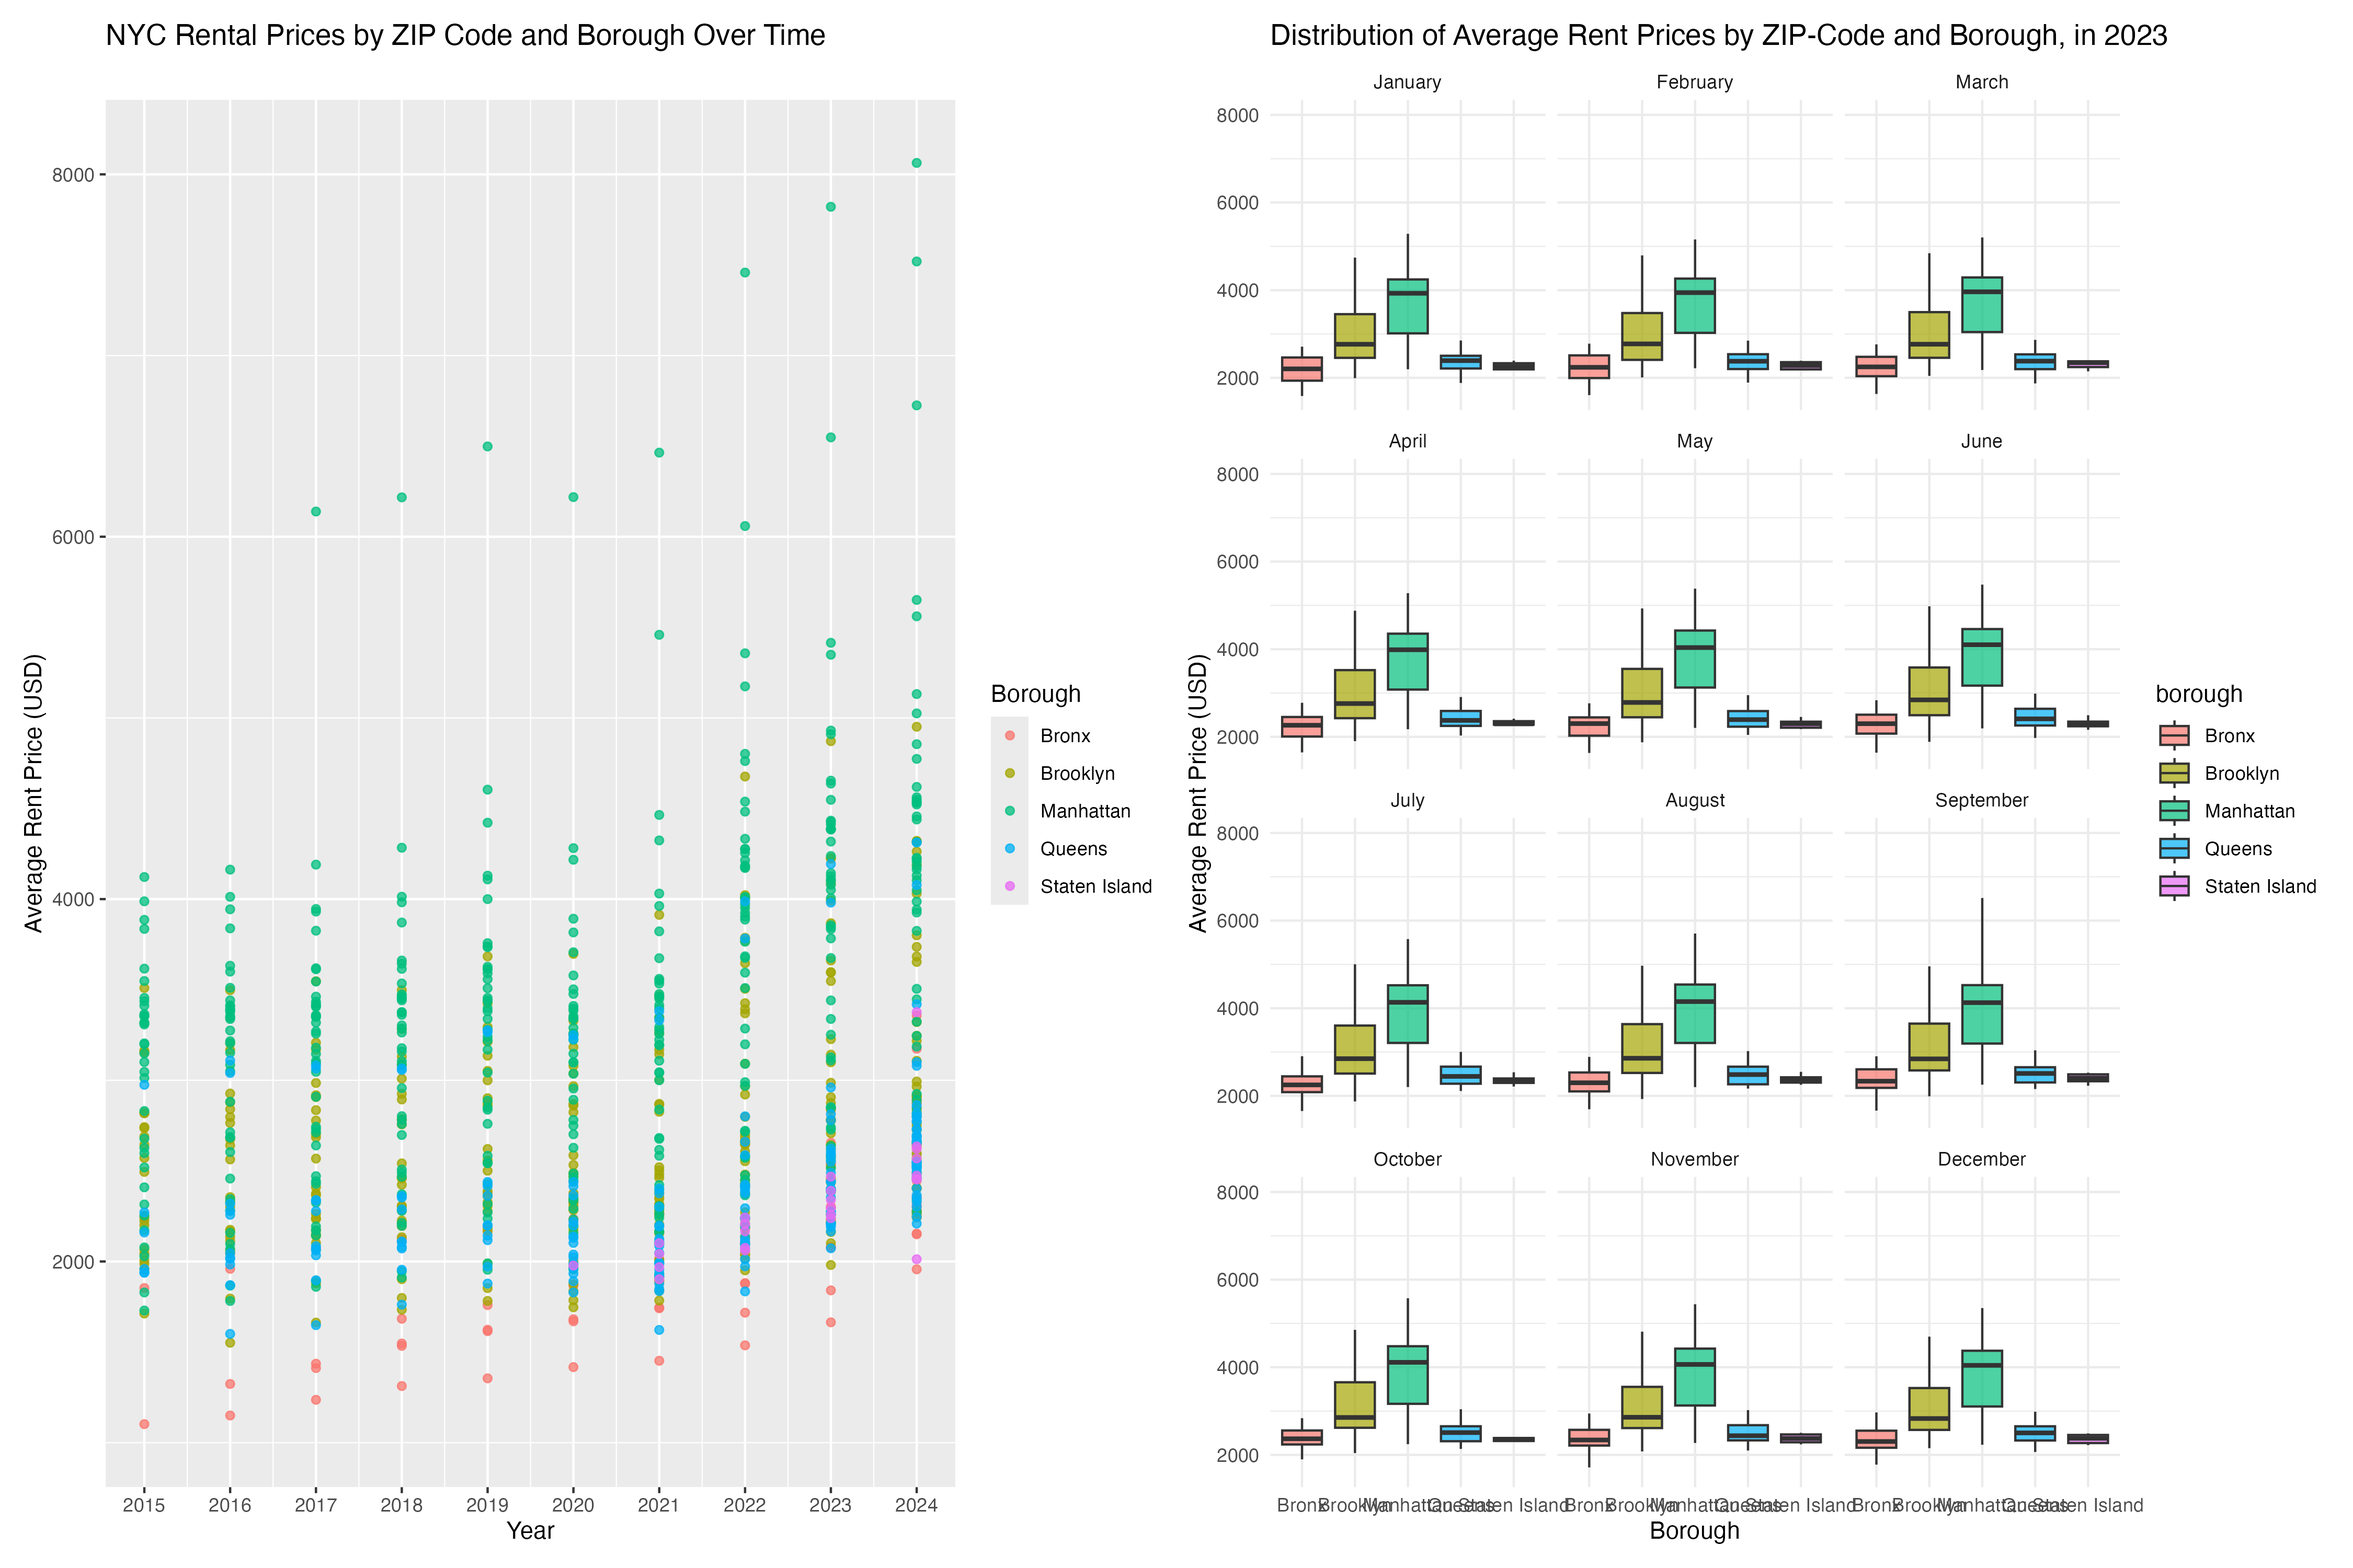
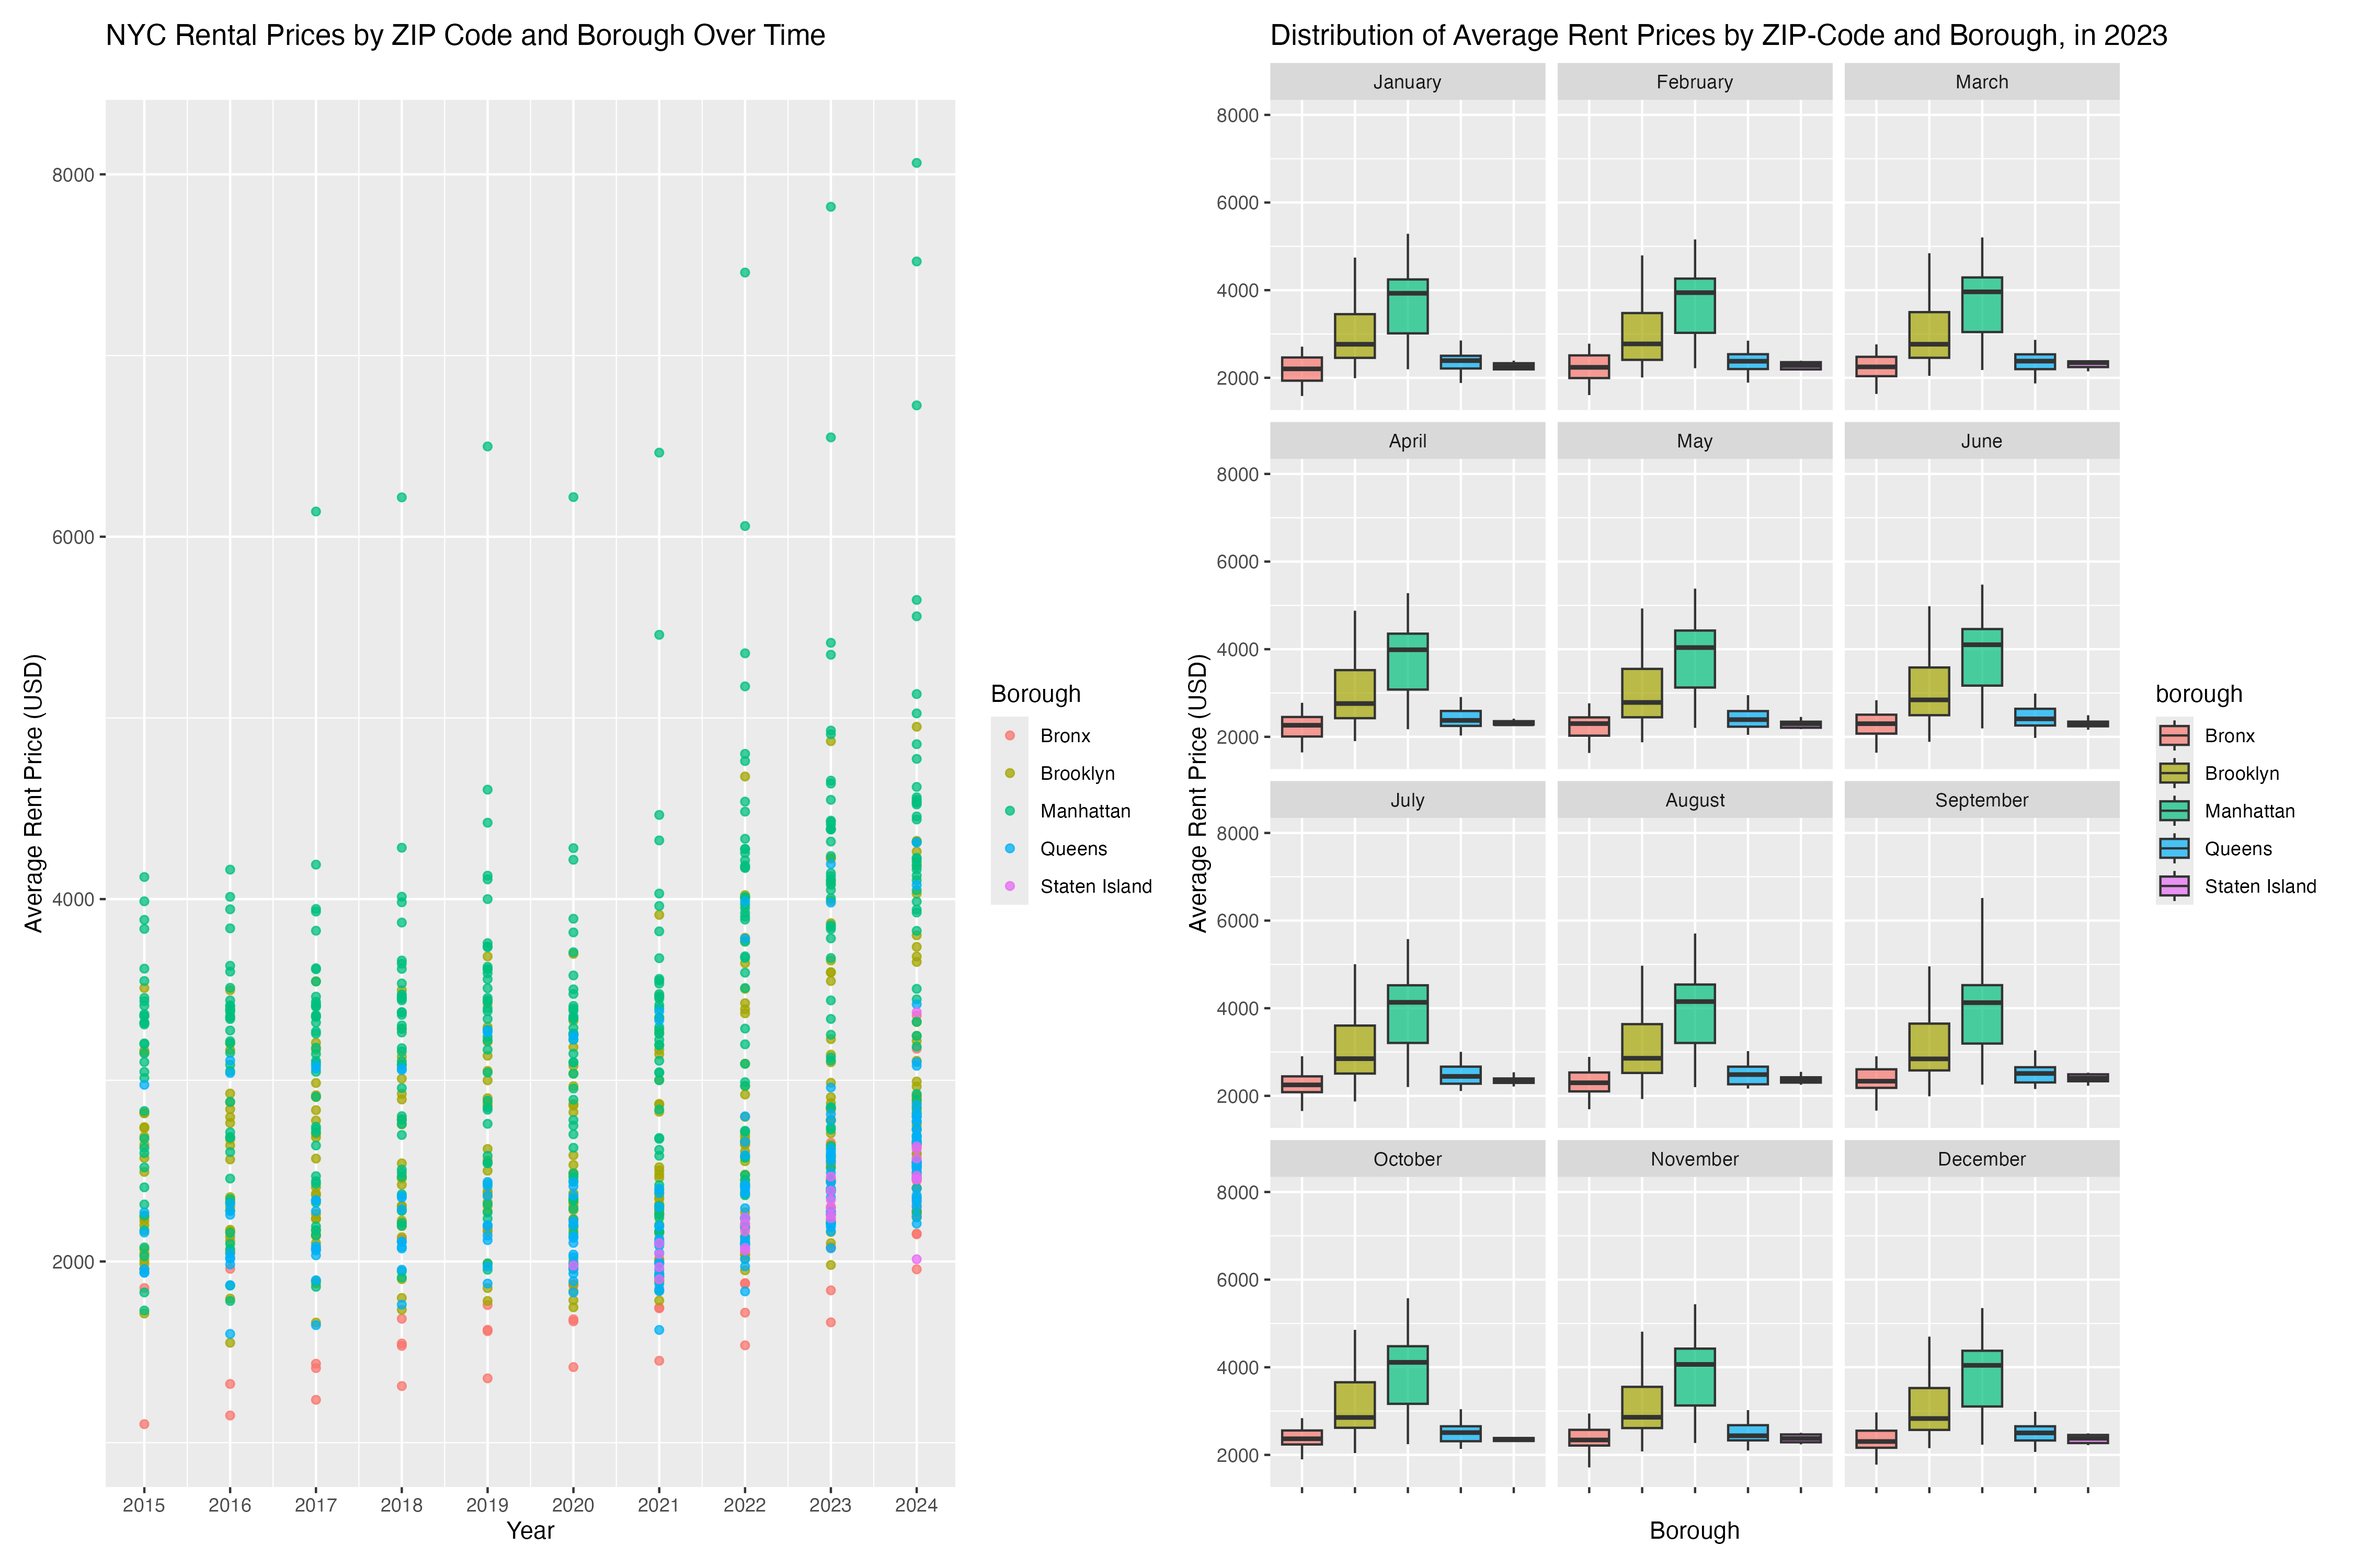
updating problem 1 and 2 formatting

diff --git a/p8105_hw3_tp2806.md b/p8105_hw3_tp2806.md
@@ -3,6 +3,14 @@ p8105_hw3_tp2806
 Tejashree Prakash
 2025-10-12
 
+``` r
+knitr::opts_chunk$set(
+  warning = FALSE,
+  message = FALSE,
+  echo = TRUE  # or FALSE if you want no code at all
+)
+```
+
 ## Problem 1
 
 ``` r
@@ -21,8 +29,9 @@ columns. Key variables include: order_id, which is the order ID for each
 order; product_name, defining the specific item that was ordered; and
 aisle, defining aisle number matching to a specific order
 
-For example, user 153375 placed order 256005 that included “Gluten Free
-Rice Lasagna” from the “dry pasta” aisle on day 2 at hour 9.
+For example, user 199948 placed order 3245316 that included “Organic
+Vegetable Masala Stew” from the “soup broth bouillon” aisle on day 4 at
+hour 19.
 
 ``` r
 #distinct aisle 
@@ -63,7 +72,7 @@ aisle_plot <- instacart %>%
 aisle_plot
 ```
 
-![](p8105_hw3_tp2806_files/figure-gfm/unnamed-chunk-3-1.png)<!-- -->
+![](p8105_hw3_tp2806_files/figure-gfm/unnamed-chunk-4-1.png)<!-- -->
 
 ## Making a table that show popular items in three aisles.
 
@@ -136,18 +145,7 @@ zip_df <-
   read_csv("zillow_data/Zip Codes.csv") %>%
   janitor::clean_names() %>%
   mutate(file_date = as.Date(file_date, format = "%m/%d/%y")) #consistent date format
-```
 
-    ## Rows: 322 Columns: 7
-    ## ── Column specification ────────────────────────────────────────────────────────
-    ## Delimiter: ","
-    ## chr (4): County, County Code, File Date, Neighborhood
-    ## dbl (3): State FIPS, County FIPS, ZipCode
-    ## 
-    ## ℹ Use `spec()` to retrieve the full column specification for this data.
-    ## ℹ Specify the column types or set `show_col_types = FALSE` to quiet this message.
-
-``` r
 #Zillow data
 zori_df <- 
   read_csv("zillow_data/zori.csv") %>%
@@ -164,18 +162,7 @@ zori_df <-
     date = ymd(date), #consistent date format
   ) %>%
   rename(borough = county) 
-```
 
-    ## Rows: 149 Columns: 125
-    ## ── Column specification ────────────────────────────────────────────────────────
-    ## Delimiter: ","
-    ## chr   (6): RegionType, StateName, State, City, Metro, CountyName
-    ## dbl (119): RegionID, SizeRank, RegionName, 2015-01-31, 2015-02-28, 2015-03-3...
-    ## 
-    ## ℹ Use `spec()` to retrieve the full column specification for this data.
-    ## ℹ Specify the column types or set `show_col_types = FALSE` to quiet this message.
-
-``` r
 #Merging datasets
 zillow_df <- left_join(zori_df, zip_df, by= c("zip_code"), relationship =
   "many-to-many")
@@ -282,13 +269,10 @@ rent_by_zip_plot <-
     breaks = c(2015, 2016, 2017, 2018, 2019, 2020, 2021, 2022, 2023, 2024),  
     labels = c(2015, 2016, 2017, 2018, 2019, 2020, 2021, 2022, 2023, 2024)
   )
-rent_by_zip_plot
+print(rent_by_zip_plot)
 ```
 
-    ## Warning: Removed 531 rows containing missing values or values outside the scale range
-    ## (`geom_point()`).
-
-![](p8105_hw3_tp2806_files/figure-gfm/unnamed-chunk-9-1.png)<!-- -->
+![](p8105_hw3_tp2806_files/figure-gfm/unnamed-chunk-10-1.png)<!-- -->
 This plot shows the average rent prices of each zip code within all
 boroughs and all years between 2015 to 2024. Overall, we can see through
 this plot that rent prices consistently ranged between 2000-4000 USD
@@ -323,16 +307,12 @@ rent_2023_plot <- ggplot(rent_2023, aes(x = borough, y = avg_rent_price, fill = 
     x = "Borough",
     y = "Average Rent Price (USD)"
   ) +
-  theme(axis.text.x = element_blank()) +
-  theme_minimal() 
+  theme(axis.text.x = element_blank()) 
 
-rent_2023_plot
+print(rent_2023_plot)
 ```
 
-    ## Warning: Removed 333 rows containing non-finite outside the scale range
-    ## (`stat_boxplot()`).
-
-![](p8105_hw3_tp2806_files/figure-gfm/unnamed-chunk-10-1.png)<!-- -->
+![](p8105_hw3_tp2806_files/figure-gfm/unnamed-chunk-11-1.png)<!-- -->
 These box plots show the distribution of average rent prices within each
 zip code over each month in 2023, grouped by borough. Consistently
 across each month in 2023, Manhattan had the highest average rent price.
@@ -346,25 +326,14 @@ boroughs in NYC.
 ``` r
 #Merge both plots into one graphic
 rent_graphic <- rent_by_zip_plot + rent_2023_plot
-rent_graphic
+print(rent_graphic)
 ```
 
-    ## Warning: Removed 531 rows containing missing values or values outside the scale range
-    ## (`geom_point()`).
-
-    ## Warning: Removed 333 rows containing non-finite outside the scale range
-    ## (`stat_boxplot()`).
-
-![](p8105_hw3_tp2806_files/figure-gfm/unnamed-chunk-11-1.png)<!-- -->
+![](p8105_hw3_tp2806_files/figure-gfm/unnamed-chunk-12-1.png)<!-- -->
 
 ``` r
 #Save graphic into results folder
 ggsave("results/rent_graphic.png", rent_graphic, width = 15, height = 10, dpi = 300)
 ```
-
-    ## Warning: Removed 531 rows containing missing values or values outside the scale range
-    ## (`geom_point()`).
-    ## Removed 333 rows containing non-finite outside the scale range
-    ## (`stat_boxplot()`).
 
 ## Problem 3
